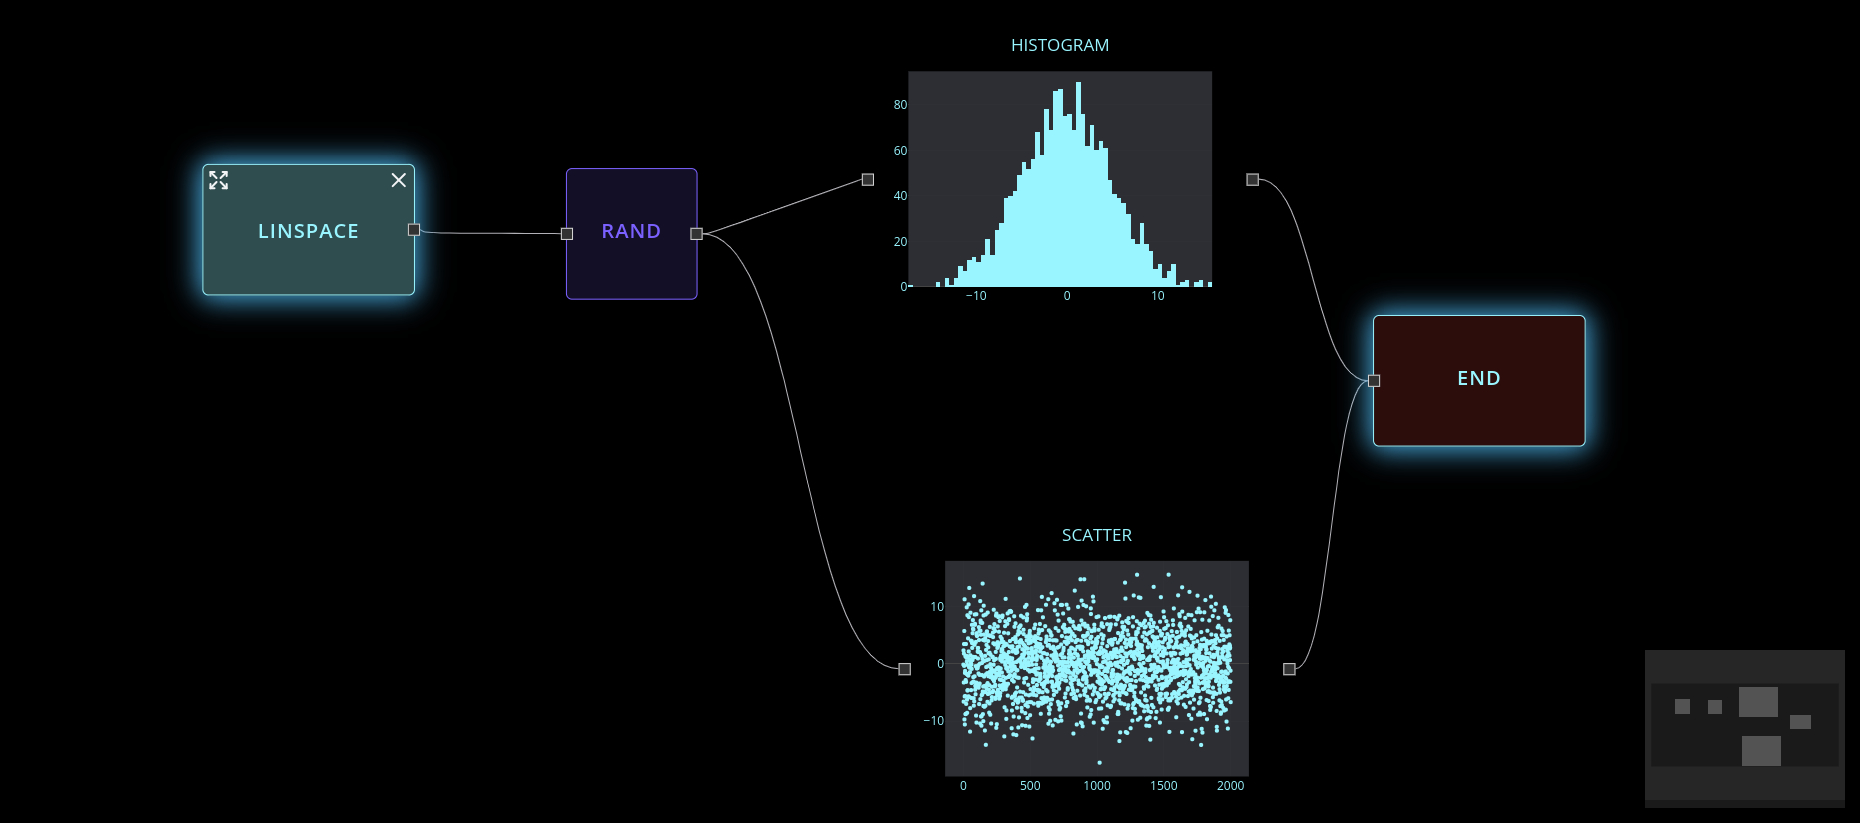
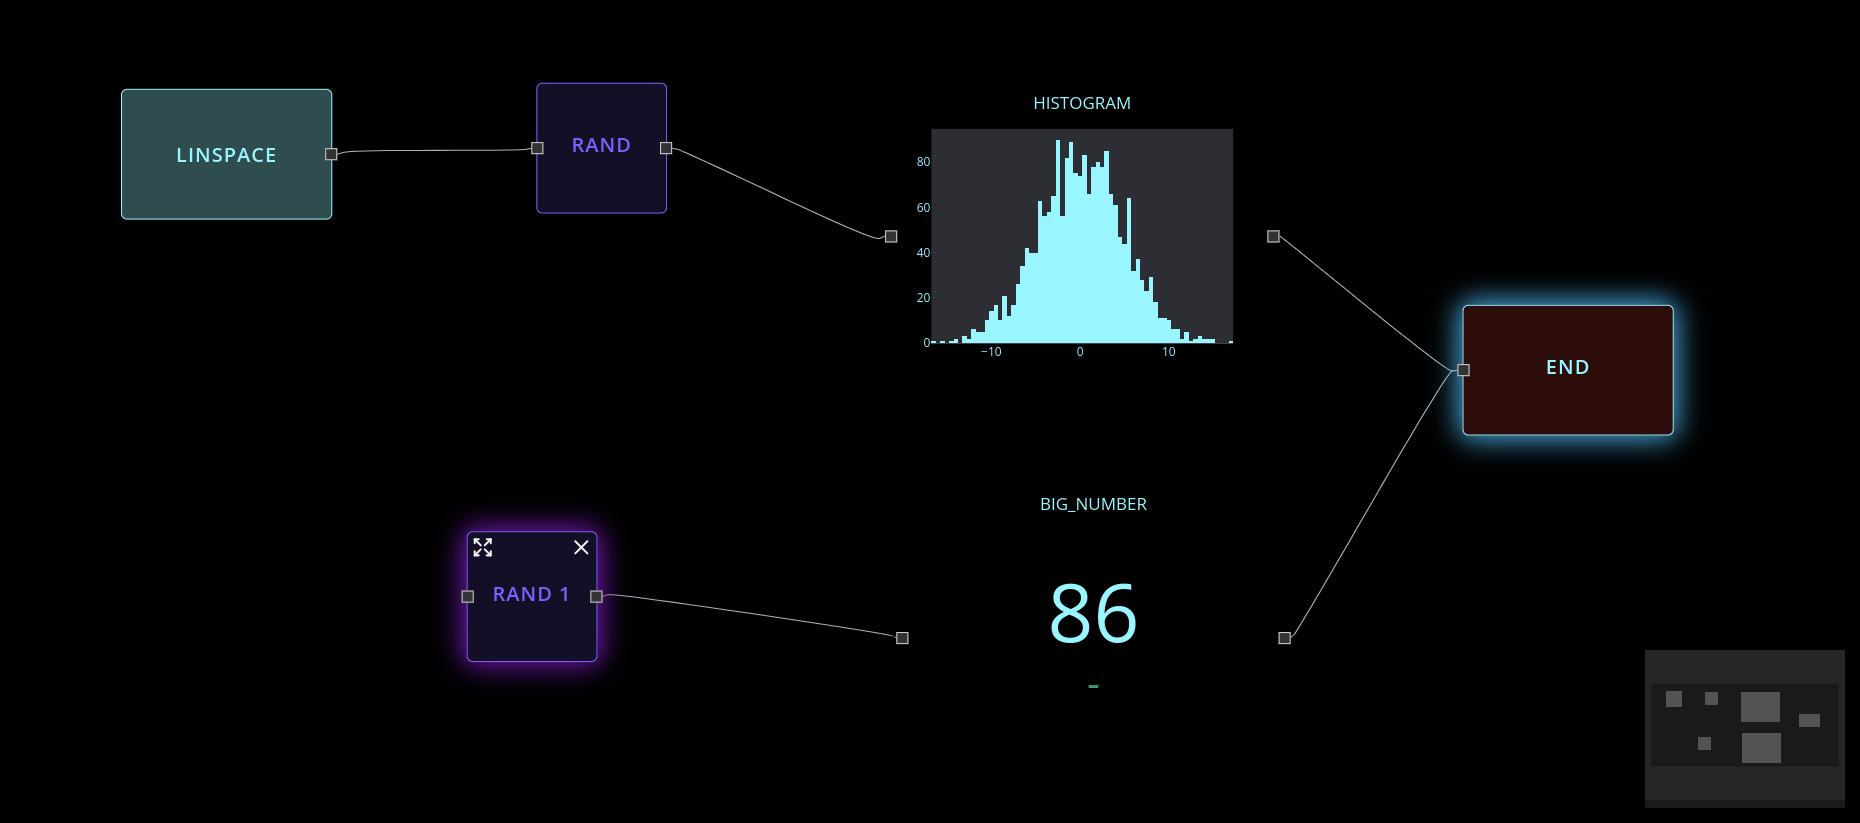
random node update

diff --git a/VISUALIZERS/PLOTLY/BIG_NUMBER/BIG_NUMBER.py b/VISUALIZERS/PLOTLY/BIG_NUMBER/BIG_NUMBER.py
@@ -1,4 +1,4 @@
-from flojoy import flojoy, Plotly, OrderedPair, DefaultParams, SmallMemory
+from flojoy import flojoy, Plotly, OrderedPair, DefaultParams, SmallMemory, Scalar
 import plotly.graph_objects as go
 from nodes.VISUALIZERS.template import plot_layout
 
@@ -7,7 +7,7 @@ MEMORY_KEY = "BIG_NUMBER_MEMORY_KEY"
 
 @flojoy(inject_node_metadata=True)
 def BIG_NUMBER(
-    default: OrderedPair,
+    default: OrderedPair | Scalar,
     default_params: DefaultParams,
     suffix: str,
     prefix: str,
@@ -38,7 +38,11 @@ def BIG_NUMBER(
     fig = go.Figure(layout=layout)
 
     prev_num = SmallMemory().read_memory(job_id, MEMORY_KEY)
-    big_num = default.y[-1]
+    match default:
+        case OrderedPair():
+            big_num = default.y[-1]
+        case Scalar():
+            big_num = default.c
     val_format = ".1%" if relative_delta is True else ".1f"
     fig.add_trace(
         go.Indicator(

diff --git a/GENERATORS/SIMULATIONS/RAND/RAND.py b/GENERATORS/SIMULATIONS/RAND/RAND.py
@@ -48,9 +48,13 @@ def RAND(
 
     match default:
         case OrderedPair():
-            size = len(default.x) if default else None
+            size = len(default.x)
+            x = default.x
         case Vector():
-            size = len(default.v) if default else None
+            size = len(default.v)
+            x = default.v
+        case _:
+            size = 1
 
     match distribution:
         case "uniform":
@@ -62,12 +66,4 @@ def RAND(
         case "poisson":
             y = my_generator.poisson(lam=poisson_events, size=size)
 
-    match default:
-        case OrderedPair():
-            x = default.x
-        case Vector():
-            x = default.v
-        case _:
-            return Scalar(c=y)
-
-    return OrderedPair(x=x, y=y)
+    return OrderedPair(x=x, y=y) if default else Scalar(c=y)

diff --git a/GENERATORS/SIMULATIONS/RAND/example.md b/GENERATORS/SIMULATIONS/RAND/example.md
@@ -1,9 +1,7 @@
-In this example, the `RAND` node generates a list of random numbers with a normal (or Gaussian) distribution.  
-
-By having a large number of samples, which in this case is 2000 generated by the `LINSPACE` node,
-the distribution can be easily seen with a `HISTOGRAM` node.
+In this example, `LINSPACE` is used to generate a list of 2000 samples, it is then passed onto the `RAND` node, 
+which randomizes the values within the list with a normal (or Gaussian) distribution.  
 
 The distribution is then plotted with `HISTOGRAM` and as expected of a Gaussian distribution,
 the output of the `HISTOGRAM` node converges towards a bell curve.
 
-A `SCATTER` Viz node is also used to show the randomly generated numbers.
+There's also a `RAND` node with no inputs, in which case a single number would be generated, which is displayed by `BIG_NUMBER` in this example.
